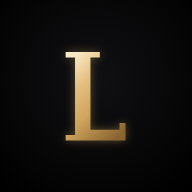
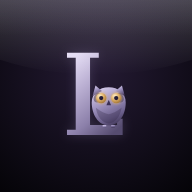
LIFE のアイコンをダーク紫＋光沢にし、フクロウを添える (#37)
- 地を黒に近いダーク紫にして、上からの照り返しと上辺のふち光で光沢を出した
- L は銀紫のグラデーションに変更
- L の足元のくぼみにフクロウを座らせた。小さく描いても分かるよう、
  幅広の顔・大きな丸い目（金）・小さなくちばしにしている
- LINE 用のアイコンは今のまま（黒＋緑の吹き出し）据え置き

検証: 色をピクセル単位で数えて、銀紫の L・金色のフクロウの目・
暗いダーク紫の地になっていることを確認。PNG が 180/192/512 の正方形で
取得できること、ランチャーの動きも合わせて確認。

Claude-Session: https://claude.ai/code/session_011yLiAuTRPF991GYKM8apWE

diff --git a/index.html b/index.html
@@ -7,13 +7,13 @@
 <title>LIFE</title>
 <!-- ホーム画面に追加したときのアイコン。指定が無いと iOS が
      ページを縮小した「黒地に文字」の絵を勝手に作ってしまう -->
-<link rel="apple-touch-icon" href="assets/icon-180.png?v=dev725131">
-<link rel="icon" type="image/png" sizes="192x192" href="assets/icon-192.png?v=dev725131">
-<link rel="icon" type="image/svg+xml" href="assets/icon.svg?v=dev725131">
-<link rel="manifest" href="manifest.webmanifest?v=dev725131">
+<link rel="apple-touch-icon" href="assets/icon-180.png?v=dev725132">
+<link rel="icon" type="image/png" sizes="192x192" href="assets/icon-192.png?v=dev725132">
+<link rel="icon" type="image/svg+xml" href="assets/icon.svg?v=dev725132">
+<link rel="manifest" href="manifest.webmanifest?v=dev725132">
 <meta name="apple-mobile-web-app-title" content="LIFE">
 <meta name="apple-mobile-web-app-status-bar-style" content="black-translucent">
-<link rel="stylesheet" href="assets/app.css?v=dev725131">
+<link rel="stylesheet" href="assets/app.css?v=dev725132">
 </head>
 <body>
 <!-- 筋トレの 3D 風イラストで使う塗り（グラデーションと発光）。
@@ -115,11 +115,11 @@
     <div class="mask" id="mask"><div class="sheet" id="sheet"></div></div>
   </div>
 </div>
-<script src="assets/github.js?v=dev725131"></script>
-<script src="assets/places.js?v=dev725131"></script>
-<script src="assets/nearby.js?v=dev725131"></script>
-<script src="assets/workout.js?v=dev725131"></script>
-<script src="assets/demo-data.js?v=dev725131"></script>
-<script src="assets/app.js?v=dev725131"></script>
+<script src="assets/github.js?v=dev725132"></script>
+<script src="assets/places.js?v=dev725132"></script>
+<script src="assets/nearby.js?v=dev725132"></script>
+<script src="assets/workout.js?v=dev725132"></script>
+<script src="assets/demo-data.js?v=dev725132"></script>
+<script src="assets/app.js?v=dev725132"></script>
 </body>
 </html>
